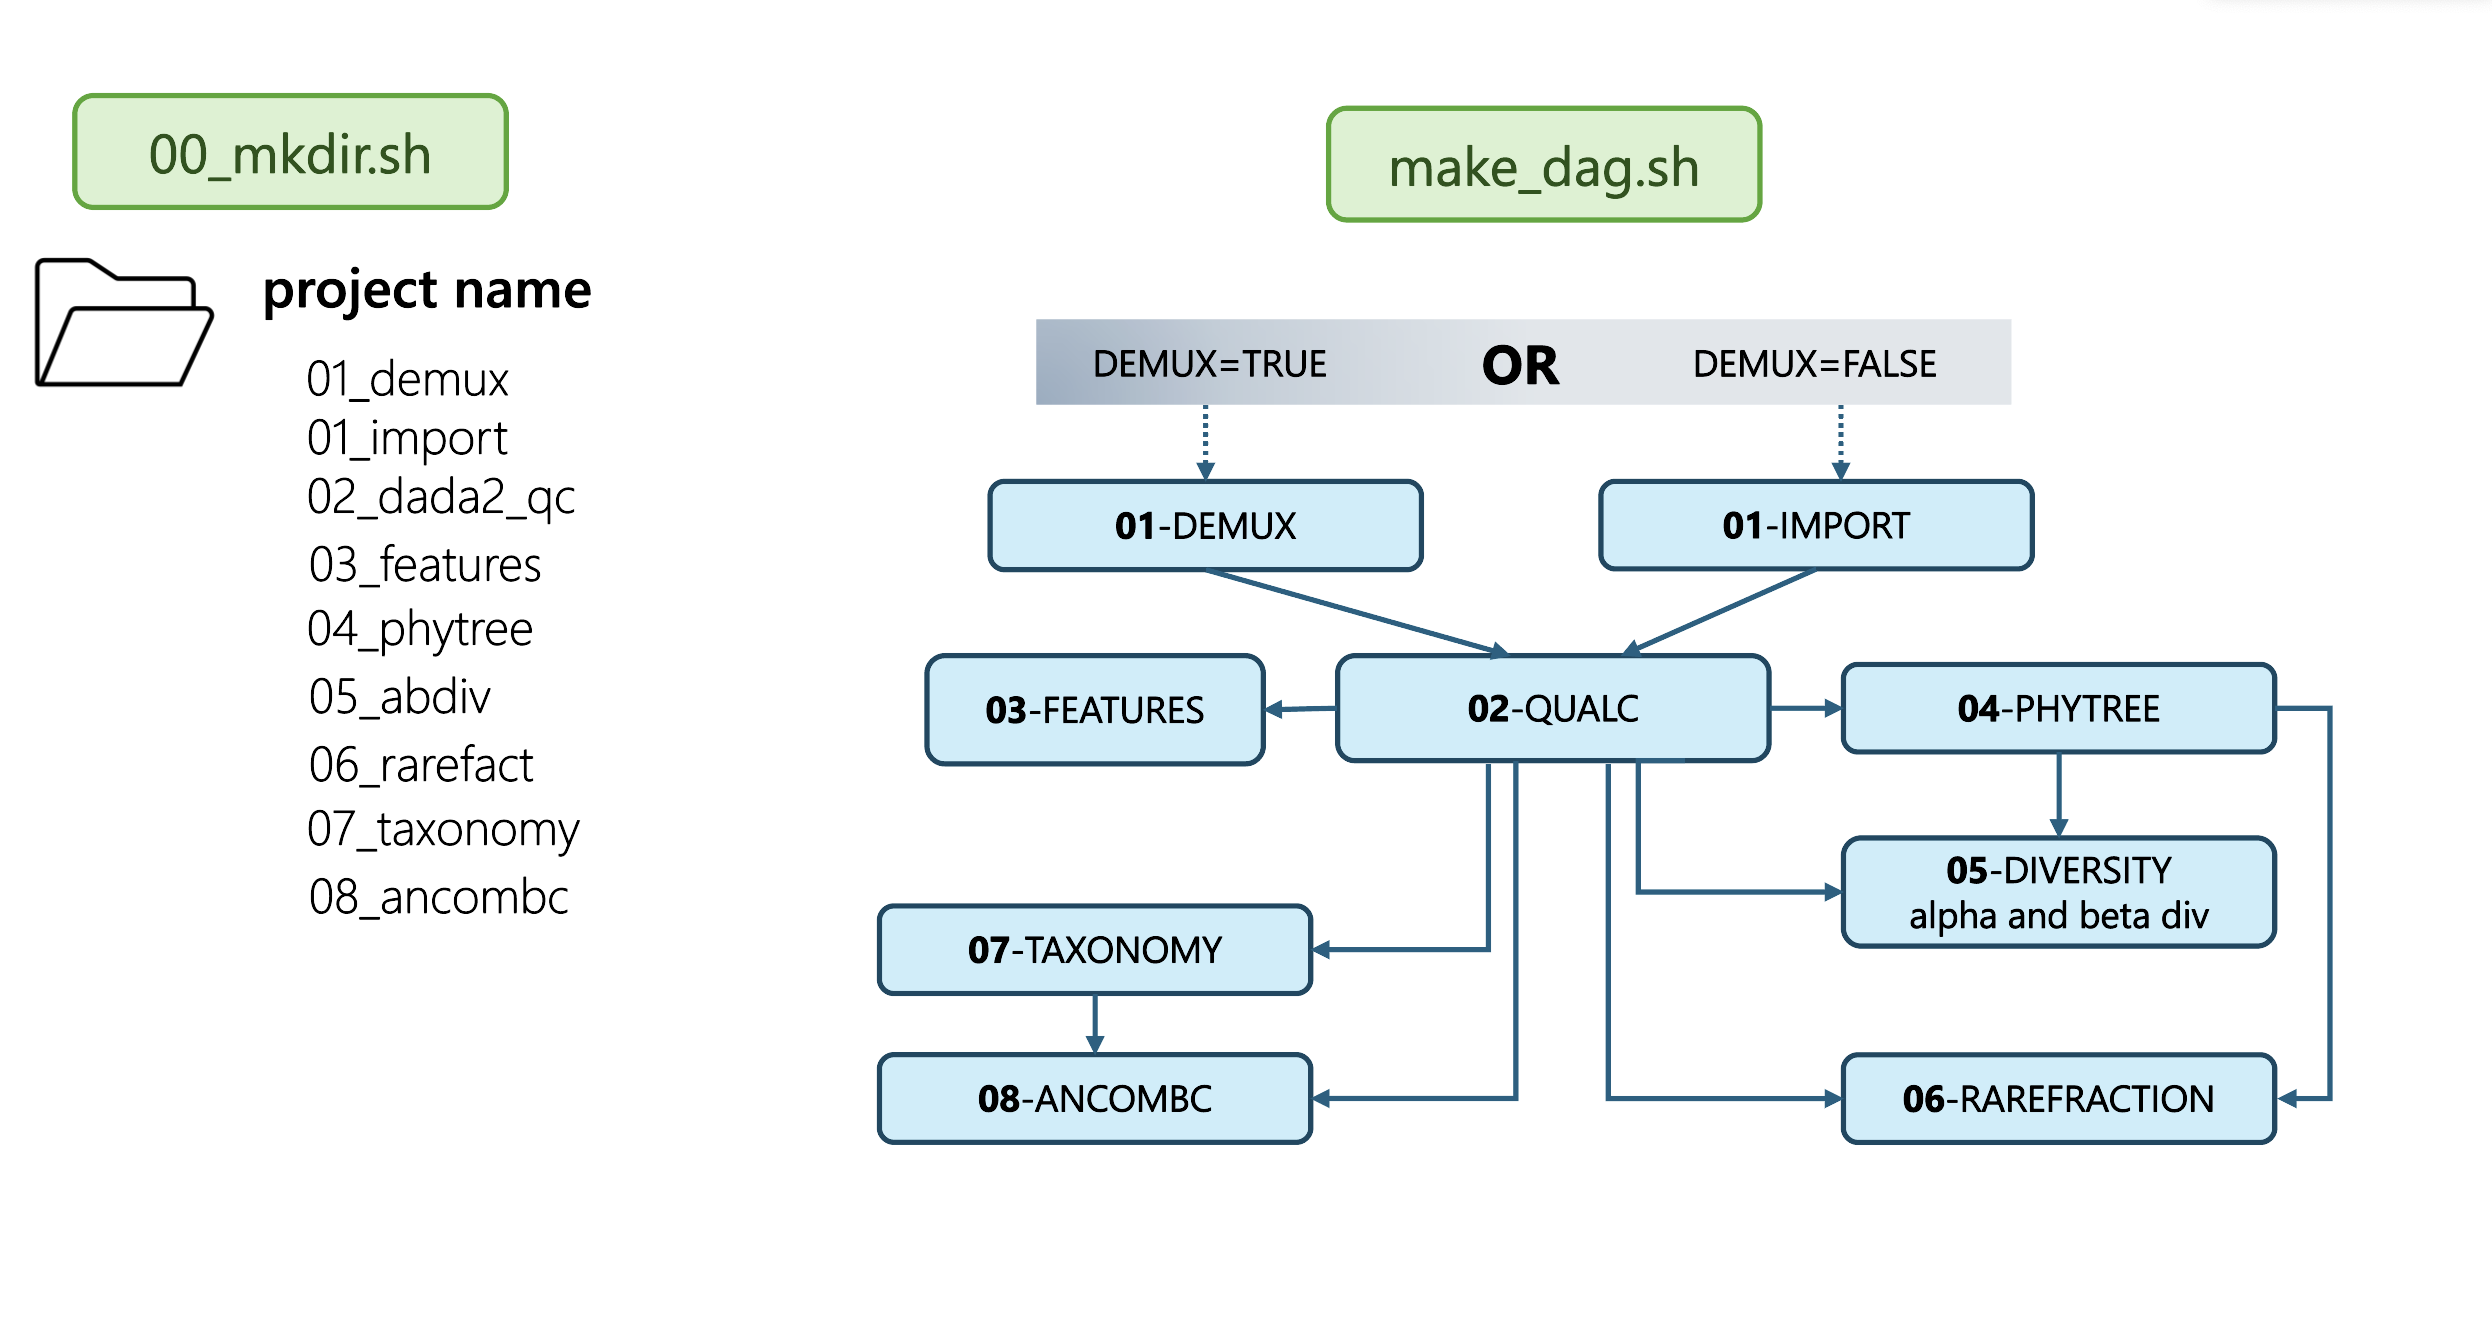
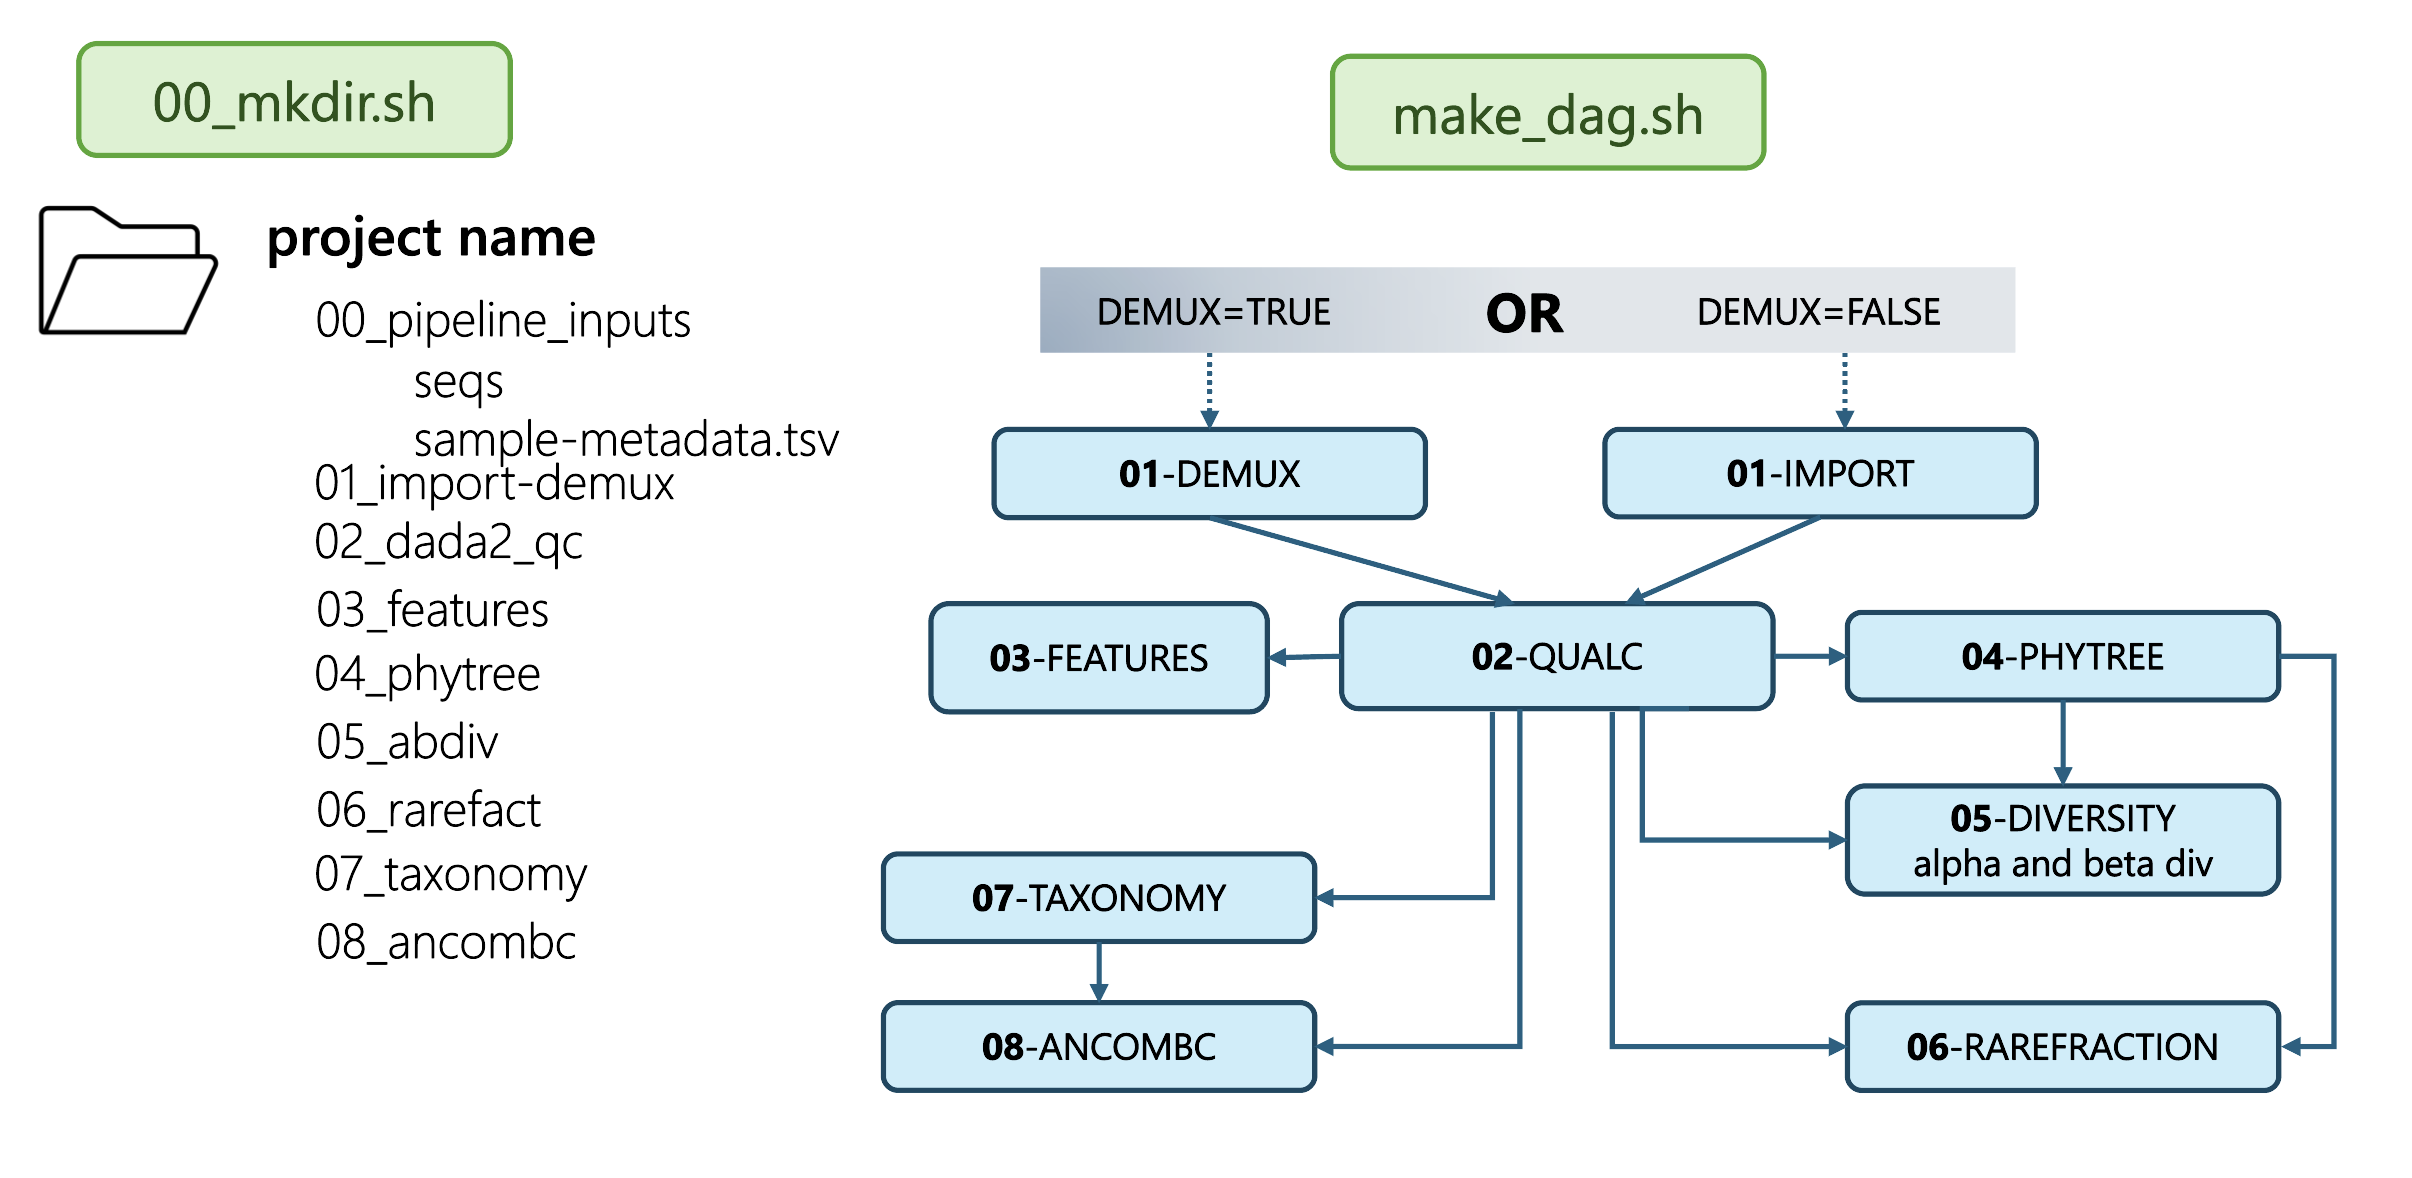
update workflow figure and add the output interpretation page

diff --git a/docs/pages/output_interpretation.md b/docs/pages/output_interpretation.md
@@ -1,0 +1,107 @@
+---
+layout: default
+title: Result Interpretation
+nav_order: 4
+---
+
+# Output Interpretation Guide
+
+For the outputs of this pipeline (`.qza` and `.qzv` files), you should be able to open them with [QIIME2 View](https://view.qiime2.org/).  
+This page explains the purpose and interpretation of major output file generated by the 16S microbiome workflow. Most of files that are explained here are `.qzv` files, since they are visualizations of data.  
+
+{: .note }
+For more details, refer to QIIME2’s official [tutorial](https://amplicon-docs.qiime2.org/en/latest/). 
+
+## Demultiplexing
+
+**File:** `demux.qzv`  
+**Purpose:** Provides basic statistics and quality information about your raw input reads.  
+
+**Interpretation:**  
+-  **Sequence count summary:** Check the number of forward and reverse reads for each sample. The counts should roughly match; large mismatches may indicate pairing or sequencing issues.  
+-  **Interactive quality plot:** Displays the average quality score per base position.  
+  - Look for the position where the quality drops sharply.  
+  - This helps you decide your **trimming lengths** for DADA2.  
+
+## Denoising
+
+**Files:** `stats.qzv`  
+**Purpose:** Filter and denoise the raw reads, removing low-quality or chimeric sequences.
+
+**Interpretation:**  
+- **Filter summary:** Shows how many reads passed each filtering step.  
+- **Sorting:** The interactive table allows sorting based on different columns. For example, sorting based on **percentage of input passed filter** gives insights about the sequencing quality.  
+- This step shows how your data was “cleaned up” before downstream analysis.
+
+## Feature Table and Representative Sequences
+
+**Files:**  
+- `table.qzv`  
+- `rep-seqs.qzv`
+
+**Interpretation:**  
+- `rep-seqs.qzv`: Shows representative sequences for each feature (ASV).  
+  - Use this file if you want to inspect the actual **FASTA sequences**.  
+- `table.qzv`: Displays the **abundance** of each feature across samples.  
+  - Overview: High-level statistics of frequency.  
+  - Interactive Sample Detail: Tells you how many times a feature appears in each sample. It's useful for visualizing community composition and richness.  
+  - Feature Detail: Frequency table of each feature.
+
+## Phylogenetic Tree
+
+**Files:** `rooted-tree.qza`
+
+**Interpretation:**  
+- The **rooted tree** provides phylogenetic relationships among features.  
+- You can download `tree.nwk` and visualize it in:  
+  - [iTOL](https://itol.embl.de) — upload `tree.nwk`
+  - R with `ggtree` package (`library(ggtree)`)
+- This tree is used for diversity analyses that require phylogenetic distance.
+
+## Alpha & Beta Diversity
+
+**Files:**
+- `evenness.qzv`
+- `faith-pd.qzv`
+- `unweighted_unifrac.qzv`
+
+**Interpretation:**  
+- These three files have the same purpose of testing the diversity by comparing the difference between groups, but they use different statistic methods.  
+- `evenness.qzv`: Compares how evenly species are distributed across samples.  
+  - Look for **p-values** comparing different groups.
+- `faith-pd.qzv`: Similar to evenness but uses **phylogenetic diversity** instead of counts.
+- `unweighted_unifrac.qzv`: Tests **beta diversity** differences between groups.  
+
+## Rarefaction Curves
+
+**File:** `alpha-rarefaction.qzv`  
+**Purpose:** Visualizes sequencing depth vs. observed diversity.  
+
+**Interpretation:**  
+- Look for a **plateau** in the curve.  
+- Plateau = sufficient sequencing depth; no need for deeper sequencing.  
+- If the curve is still rising, some samples might need higher read depth.
+
+## Taxonomic Analysis
+
+**File:** `taxa-bar-plots.qzv`
+
+**Interpretation:**
+- Visualizes the relative abundance of taxa at different **taxonomic levels** (domain to species).  
+- Change the **taxonomic level** (e.g., level 2 = phylum, level 3 = class).  
+- Most informative levels are typically **2 or 3**.  
+- You can:
+  - Sort samples by metadata category.  
+  - Export the visualization as CSV for downstream R analysis.
+
+## Differential Abundance
+
+**Files:**
+- `da-barplot-vegetation.qzv`
+- `ancombc-level6.qzv`
+
+**Interpretation:**
+- `da-barplot-vegetation.qzv`: Identifies which species are **over- or under-expressed** among groups (based on feature IDs only).  
+- `ancombc-level6.qzv`: Displays **full taxonomic names** and significance results.  
+  - Shows which taxa are **differentially abundant**.  
+  - You can customize by changing the taxonomic **level** parameter when running the pipeline.

diff --git a/docs/pages/references.md b/docs/pages/references.md
@@ -1,7 +1,7 @@
 ---
 layout: default
 title: Reference
-nav_order: 4
+nav_order: 5
 ---
 
 # References
